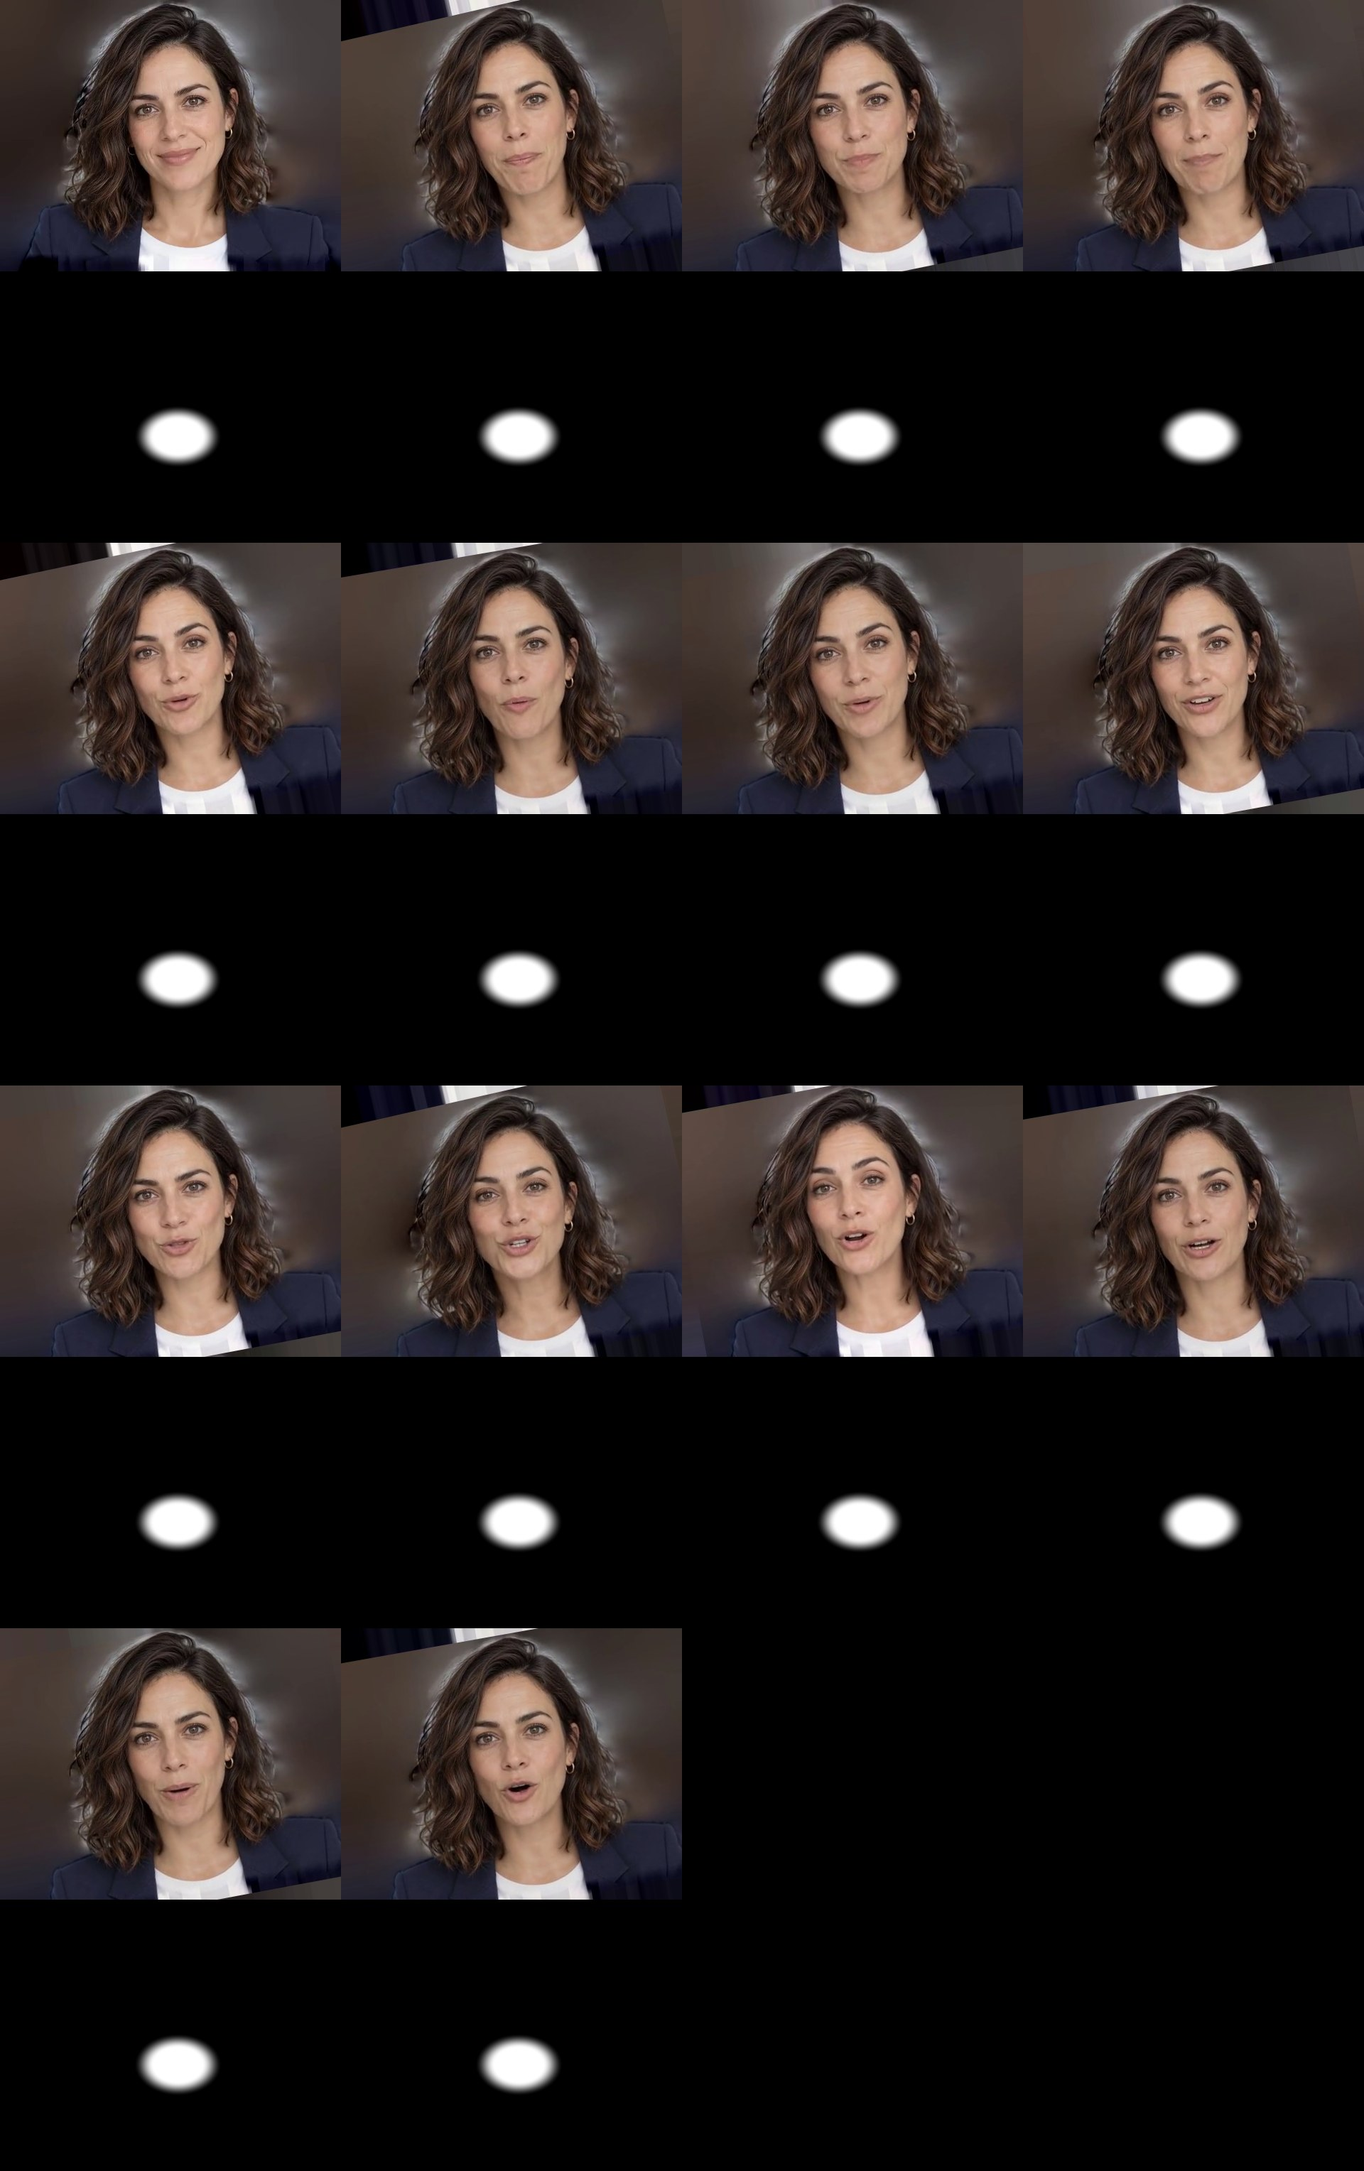
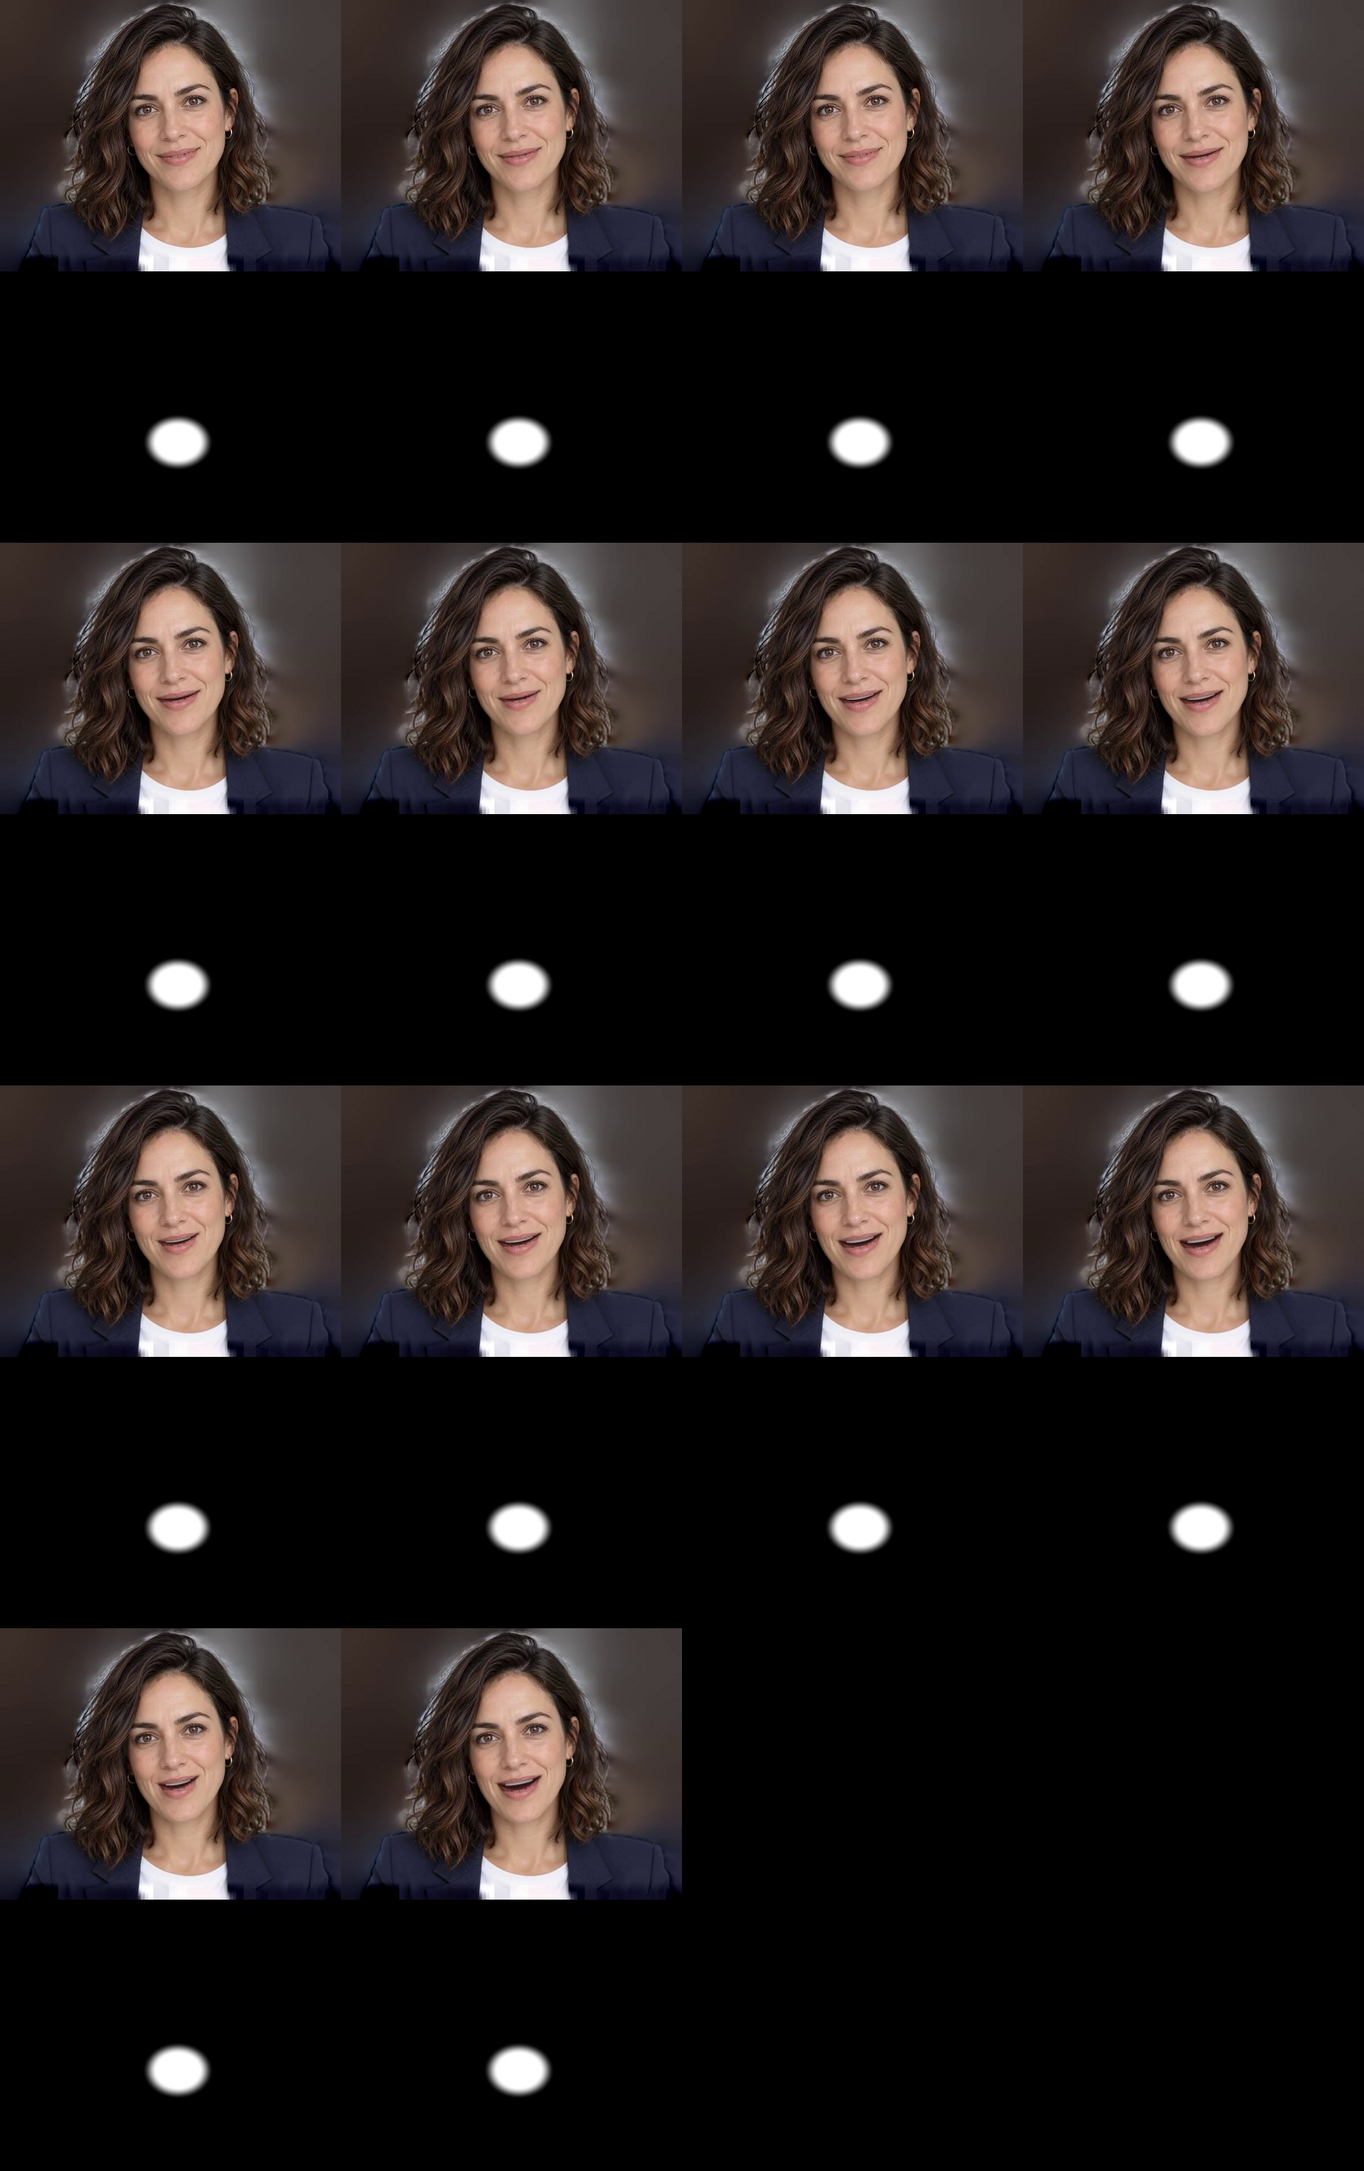
Asistente: bocas hechas con su propia cara (sin sombras ni tamaño extra) y voz que empieza por la primera frase

diff --git a/src/components/AssistantAvatarWidget.tsx b/src/components/AssistantAvatarWidget.tsx
@@ -1,13 +1,14 @@
 import { useCallback, useEffect, useRef, useState, type PointerEvent as ReactPointerEvent } from "react";
 import { Link, useRouterState } from "@tanstack/react-router";
 import { useServerFn } from "@tanstack/react-start";
-import { ArrowRight, Mic, MicOff, Minus, Play, Send, Volume2, VolumeX, X } from "lucide-react";
+import { ArrowRight, Loader2, Mic, MicOff, Minus, Play, Send, Volume2, VolumeX, X } from "lucide-react";
 import { Button } from "@/components/ui/button";
 import { type AvatarFrame, AlphaVideoCanvas } from "@/components/assistant/AlphaVideoCanvas";
 import { type HelpTopic, localAnswerFor, screenName, topicsForPath } from "@/lib/assistant-help";
 import { askAssistant } from "@/lib/assistant.functions";
 import { assistantSpeech, assistantTranscribe } from "@/lib/assistant-voice.functions";
 import { MOUTH_SPRITE, type MouthLevel, createMouthPicker, envelopeFromSamples, levelAt, syntheticLevel } from "@/lib/assistant-lipsync";
+import { splitForSpeech } from "@/lib/assistant-speech";
 import { readPreferredAiModel } from "@/lib/preferred-model";
 import { cn } from "@/lib/utils";
 
@@ -134,6 +135,7 @@ export function AssistantAvatarWidget() {
   const speechPrimed = useRef(false);
   const decodeCtx = useRef<BaseAudioContext | null>(null);
   const clipCache = useRef(new Map<string, Clip>());
+  const clipPending = useRef(new Map<string, Promise<Clip | null>>());
   const ttsFailures = useRef(0);
   const ttsUnavailable = useRef(false);
   const speakToken = useRef(0);
@@ -188,7 +190,15 @@ export function AssistantAvatarWidget() {
 
   useEffect(() => {
     listRef.current?.scrollTo({ top: listRef.current.scrollHeight, behavior: "smooth" });
-  }, [messages, thinking, open]);
+  }, [messages, thinking, open, preparingVoice]);
+
+  // Al abrir el chat se preparan las primeras frases de las explicaciones de esta pantalla.
+  useEffect(() => {
+    if (!open || !ready) return;
+    const t = window.setTimeout(() => topicsForPath(pathname).slice(0, 3).forEach((tp) => prefetchSpeech(tp.answer)), 600);
+    return () => window.clearTimeout(t);
+    // eslint-disable-next-line react-hooks/exhaustive-deps
+  }, [open, ready, pathname]);
 
   useEffect(() => {
     if (!open) return;
@@ -273,69 +283,104 @@ export function AssistantAvatarWidget() {
     window.speechSynthesis.speak(u);
   };
 
-  /** Voz natural con tus claves (OpenAI o ElevenLabs); si no hay, la del navegador. */
-  const loadClip = async (text: string, token: number): Promise<Clip | null> => {
+  /** Voz natural con tus claves (OpenAI o ElevenLabs); null = usar la del navegador. */
+  const loadClip = (text: string): Promise<Clip | null> => {
     const cached = clipCache.current.get(text);
-    if (cached) return cached;
-    if (ttsUnavailable.current) return null;
-    setPreparingVoice(true);
-    try {
-      const r = await speech({ data: { text } });
-      if (!r.ok) {
-        if (r.reason === "no-keys" || ++ttsFailures.current >= 2) ttsUnavailable.current = true;
-        return null;
-      }
-      ttsFailures.current = 0;
-      const bytes = base64ToBytes(r.audio);
-      const url = URL.createObjectURL(new Blob([bytes], { type: r.mime }));
-      let env: Float32Array | null = null;
+    if (cached) return Promise.resolve(cached);
+    if (ttsUnavailable.current) return Promise.resolve(null);
+    const pending = clipPending.current.get(text);
+    if (pending) return pending;
+    const job = (async (): Promise<Clip | null> => {
       try {
-        const w = window as any;
-        decodeCtx.current ??= new (w.OfflineAudioContext || w.webkitOfflineAudioContext)(1, 1, 44100);
-        const decoded = await decodeAudio(decodeCtx.current!, bytes.buffer.slice(0) as ArrayBuffer);
-        env = envelopeFromSamples(decoded.getChannelData(0), decoded.sampleRate);
+        const r = await speech({ data: { text } });
+        if (!r.ok) {
+          if (r.reason === "no-keys" || ++ttsFailures.current >= 2) ttsUnavailable.current = true;
+          return null;
+        }
+        ttsFailures.current = 0;
+        const bytes = base64ToBytes(r.audio);
+        const url = URL.createObjectURL(new Blob([bytes], { type: r.mime }));
+        let env: Float32Array | null = null;
+        try {
+          const w = window as any;
+          decodeCtx.current ??= new (w.OfflineAudioContext || w.webkitOfflineAudioContext)(1, 1, 44100);
+          const decoded = await decodeAudio(decodeCtx.current!, bytes.buffer.slice(0) as ArrayBuffer);
+          env = envelopeFromSamples(decoded.getChannelData(0), decoded.sampleRate);
+        } catch {
+          env = null; // la boca se moverá igualmente mientras suene
+        }
+        const clip = { url, env };
+        clipCache.current.set(text, clip);
+        return clip;
       } catch {
-        env = null; // la boca se moverá igualmente mientras suene
+        if (++ttsFailures.current >= 2) ttsUnavailable.current = true;
+        return null;
+      } finally {
+        clipPending.current.delete(text);
       }
-      const clip = { url, env };
-      clipCache.current.set(text, clip);
-      return clip;
-    } catch {
-      if (++ttsFailures.current >= 2) ttsUnavailable.current = true;
-      return null;
-    } finally {
-      if (token === speakToken.current) setPreparingVoice(false);
-    }
+    })();
+    clipPending.current.set(text, job);
+    return job;
   };
+
+  /** Prepara de antemano la primera frase de una respuesta para que suene al momento. */
+  const prefetchSpeech = (text: string) => {
+    if (!voiceOnRef.current || ttsUnavailable.current) return;
+    const first = splitForSpeech(text)[0];
+    if (first) void loadClip(first);
+  };
+
+  /** Reproduce una parte; true si terminó bien. */
+  const playClip = (clip: Clip, token: number) =>
+    new Promise<boolean>((resolve) => {
+      const a = ensureAudio();
+      a.onended = () => resolve(true);
+      a.onerror = () => resolve(false);
+      a.src = clip.url;
+      lipRef.current = { mode: "audio", env: clip.env };
+      a.play()
+        .then(() => {
+          audioUnlocked.current = true;
+          if (token === speakToken.current) setAvatar("talking");
+        })
+        .catch(() => resolve(false));
+    });
 
   const speak = async (text: string) => {
     if (!voiceOnRef.current) return;
     const token = ++speakToken.current;
     window.speechSynthesis?.cancel();
     audioRef.current?.pause();
-    const clip = await loadClip(text, token);
-    if (token !== speakToken.current || !voiceOnRef.current) return;
-    if (!clip) {
-      speakWithBrowser(text, token);
-      return;
+    const parts = splitForSpeech(text);
+    if (parts.length === 0) return;
+    const stillMine = () => token === speakToken.current && voiceOnRef.current;
+    const first = loadClip(parts[0]);
+    // Mientras se prepara la primera frase se piden ya las siguientes.
+    if (parts[1]) void loadClip(parts[1]);
+    if (!clipCache.current.has(parts[0])) setPreparingVoice(true);
+    let clip = await first;
+    if (token === speakToken.current) setPreparingVoice(false);
+    for (let i = 0; i < parts.length; i++) {
+      if (!stillMine()) return;
+      if (!clip) {
+        speakWithBrowser(parts.slice(i).join(" "), token);
+        return;
+      }
+      if (parts[i + 2]) void loadClip(parts[i + 2]);
+      const ok = await playClip(clip, token);
+      if (!stillMine()) return;
+      if (!ok) {
+        speakWithBrowser(parts.slice(i).join(" "), token);
+        return;
+      }
+      if (i + 1 < parts.length) {
+        lipRef.current = null; // boca cerrada mientras llega la siguiente frase
+        clip = await loadClip(parts[i + 1]);
+      }
     }
-    const a = ensureAudio();
-    const done = () => {
-      if (token !== speakToken.current) return;
-      lipRef.current = null;
-      setAvatar("idle");
-    };
-    a.onended = done;
-    a.onerror = done;
-    a.src = clip.url;
-    lipRef.current = { mode: "audio", env: clip.env };
-    try {
-      await a.play();
-      audioUnlocked.current = true;
-      if (token === speakToken.current) setAvatar("talking");
-    } catch {
-      if (token === speakToken.current) speakWithBrowser(text, token);
-    }
+    if (token !== speakToken.current) return;
+    lipRef.current = null;
+    setAvatar("idle");
   };
 
   /** Celda de boca que toca ahora mismo según lo que suena. */
@@ -759,6 +804,11 @@ export function AssistantAvatarWidget() {
                 )}
               </div>
             ))}
+            {preparingVoice && !thinking && (
+              <div role="status" className="flex items-center gap-1.5 self-start px-1 text-xs text-muted-foreground">
+                <Loader2 className="h-3 w-3 animate-spin" /> Preparando la voz…
+              </div>
+            )}
             {thinking && <div className="self-start rounded-2xl rounded-bl-sm bg-muted px-3 py-2 text-sm text-muted-foreground">Pensando…</div>}
           </div>
 
@@ -770,6 +820,8 @@ export function AssistantAvatarWidget() {
                   key={t.id}
                   type="button"
                   onClick={() => answerTopic(t)}
+                  onPointerEnter={() => prefetchSpeech(t.answer)}
+                  onFocus={() => prefetchSpeech(t.answer)}
                   className="rounded-full border bg-background px-2.5 py-1 text-xs text-foreground hover:bg-accent"
                 >
                   {t.question}

diff --git a/src/lib/assistant-speech.ts b/src/lib/assistant-speech.ts
@@ -1,0 +1,46 @@
+/**
+ * Trocea una respuesta para leerla en voz alta por partes: la primera es corta
+ * (una frase) para que la asistente empiece a hablar enseguida mientras se
+ * prepara el resto.
+ */
+export function splitForSpeech(text: string, firstMax = 120, max = 280): string[] {
+  const clean = text.replace(/\s+/g, " ").trim();
+  if (!clean) return [];
+  const sentences = clean.match(/[^.!?¿¡:;\n]+[.!?:;]+["»”)]*\s*|[^.!?:;]+$/g)?.map((s) => s.trim()).filter(Boolean) ?? [clean];
+  const out: string[] = [];
+  let cur = "";
+  const limit = () => (out.length === 0 ? firstMax : max);
+  const push = () => {
+    if (cur) out.push(cur);
+    cur = "";
+  };
+  for (const s of sentences) {
+    // Frase demasiado larga: se corta por comas o espacios.
+    const pieces = s.length > limit() ? cutLong(s, limit()) : [s];
+    for (const p of pieces) {
+      if (!cur) cur = p;
+      else if (cur.length + 1 + p.length <= limit()) cur += " " + p;
+      else {
+        push();
+        cur = p;
+      }
+      if (out.length === 0 && cur.length >= 40) push(); // la primera parte, cuanto antes
+    }
+  }
+  push();
+  return out;
+}
+
+function cutLong(s: string, max: number): string[] {
+  const out: string[] = [];
+  let rest = s;
+  while (rest.length > max) {
+    let at = rest.lastIndexOf(", ", max);
+    if (at < max * 0.4) at = rest.lastIndexOf(" ", max);
+    if (at <= 0) at = max;
+    out.push(rest.slice(0, at + (rest[at] === "," ? 1 : 0)).trim());
+    rest = rest.slice(at + 1).trim();
+  }
+  if (rest) out.push(rest);
+  return out;
+}

diff --git a/src/lib/assistant-speech.test.js b/src/lib/assistant-speech.test.js
@@ -1,0 +1,28 @@
+import { describe, expect, it } from "vitest";
+import { splitForSpeech } from "./assistant-speech";
+
+const ANSWER =
+  "Ve a Exámenes y pulsa «Nueva evaluación». Sube las fotos de los exámenes desde tu ordenador. La aplicación lee la letra, aplica tu rúbrica y te propone una nota con evidencias. Revisa cada comentario antes de enviarlo al alumno, porque siempre tienes la última palabra.";
+
+describe("voz de la asistente por partes", () => {
+  it("empieza con una sola frase corta para hablar enseguida", () => {
+    const parts = splitForSpeech(ANSWER);
+    expect(parts[0]).toBe("Ve a Exámenes y pulsa «Nueva evaluación».");
+    expect(parts[0].length).toBeLessThanOrEqual(120);
+  });
+
+  it("no pierde ni cambia ninguna palabra", () => {
+    expect(splitForSpeech(ANSWER).join(" ")).toBe(ANSWER);
+  });
+
+  it("ninguna parte supera el tamaño máximo", () => {
+    const long = ("Esta es una frase bastante larga, con varias comas, que sigue y sigue sin punto " ).repeat(8);
+    for (const p of splitForSpeech(long)) expect(p.length).toBeLessThanOrEqual(280);
+    expect(splitForSpeech(long)[0].length).toBeLessThanOrEqual(120);
+  });
+
+  it("un texto corto queda en una sola parte", () => {
+    expect(splitForSpeech("Hola.")).toEqual(["Hola."]);
+    expect(splitForSpeech("   ")).toEqual([]);
+  });
+});

diff --git a/src/lib/assistant-lipsync.ts b/src/lib/assistant-lipsync.ts
@@ -1,9 +1,10 @@
 /**
  * Movimiento de labios del asistente a partir del sonido real de su voz.
  *
- * `public/assistant/bocas.jpg` es una hoja con 14 posiciones de boca sacadas
- * del vídeo «hablando» y alineadas con la cara del bucle de espera (cada celda
- * apilada: imagen arriba y, abajo, cuánto de esa boca se mezcla con la cara).
+ * `public/assistant/bocas.jpg` es una hoja con 14 posiciones de boca hechas a
+ * partir de la propia cara del bucle de espera (se abre la mandíbula y se pinta
+ * el interior), así encajan sin sombras ni cambio de tamaño. Cada celda va
+ * apilada: imagen arriba y, abajo, cuánto de esa boca se mezcla con la cara.
  * Solo se pega la zona de la boca, así la cabeza no salta al hablar. Según el
  * volumen de la voz en cada instante se elige una boca cerrada, entreabierta,
  * media o abierta.

diff --git a/AGENTS.md b/AGENTS.md
@@ -19,4 +19,4 @@
 - SEO guides are data entries in `src/lib/guides.ts` rendered by `GuideArticle` with HowTo/Article/Breadcrumb JSON-LD from `guideHead`; each guide still needs its own leaf route file and a sitemap/llms.txt entry. Why: consistent structured data and shareable URLs per guide.
 - Simulation practice runs are marked with `candidate_fields_data.__practice` (no new column) and excluded from evaluator lists/comparisons; why: the external MySQL schema is not migrated automatically.
 - Recordings rotate the camera MediaRecorder every few minutes and upload each standalone part while recording (whole-file uploads, no resumable protocol); why: the PHP file API only accepts complete files and a dropped connection must not lose the whole session.
-- The in-app assistant (mounted in the `_authenticated` layout) shows stacked colour-over-mask media from `public/assistant/` through a WebGL canvas: a calm, seamless idle loop always underneath, the greeting video crossfaded on top, and while speaking only the mouth area of `bocas.jpg` (cells pre-aligned to the idle loop's face, lower half = blend weight) pasted over the idle loop, picked from the loudness of the reply audio (`src/lib/assistant-lipsync.ts`); never swap whole talking frames, the head would jump. Reply voice and dictation fallback use the user's own OpenAI/ElevenLabs keys (`assistant-voice.functions.ts`), falling back to browser speech; app-help answers come from local data in `src/lib/assistant-help.ts`, free questions go to `askAssistant`. Why: no paid real-time avatar or Lovable service, transparent media that also works in Safari/iPhone, and it runs on the user's own hosting.
+- The in-app assistant (mounted in the `_authenticated` layout) shows stacked colour-over-mask media from `public/assistant/` through a WebGL canvas: a calm, seamless idle loop always underneath, the greeting video crossfaded on top, and while speaking only the mouth area of `bocas.jpg` (cells generated by warping the idle loop's own face, lower half = blend weight; pasting mouths from other footage leaves shadows and size mismatches) pasted over the idle loop, picked from the loudness of the reply audio (`src/lib/assistant-lipsync.ts`); replies are voiced sentence by sentence (`src/lib/assistant-speech.ts`) with the next part prefetched so speech starts quickly; never swap whole talking frames, the head would jump. Reply voice and dictation fallback use the user's own OpenAI/ElevenLabs keys (`assistant-voice.functions.ts`), falling back to browser speech; app-help answers come from local data in `src/lib/assistant-help.ts`, free questions go to `askAssistant`. Why: no paid real-time avatar or Lovable service, transparent media that also works in Safari/iPhone, and it runs on the user's own hosting.
